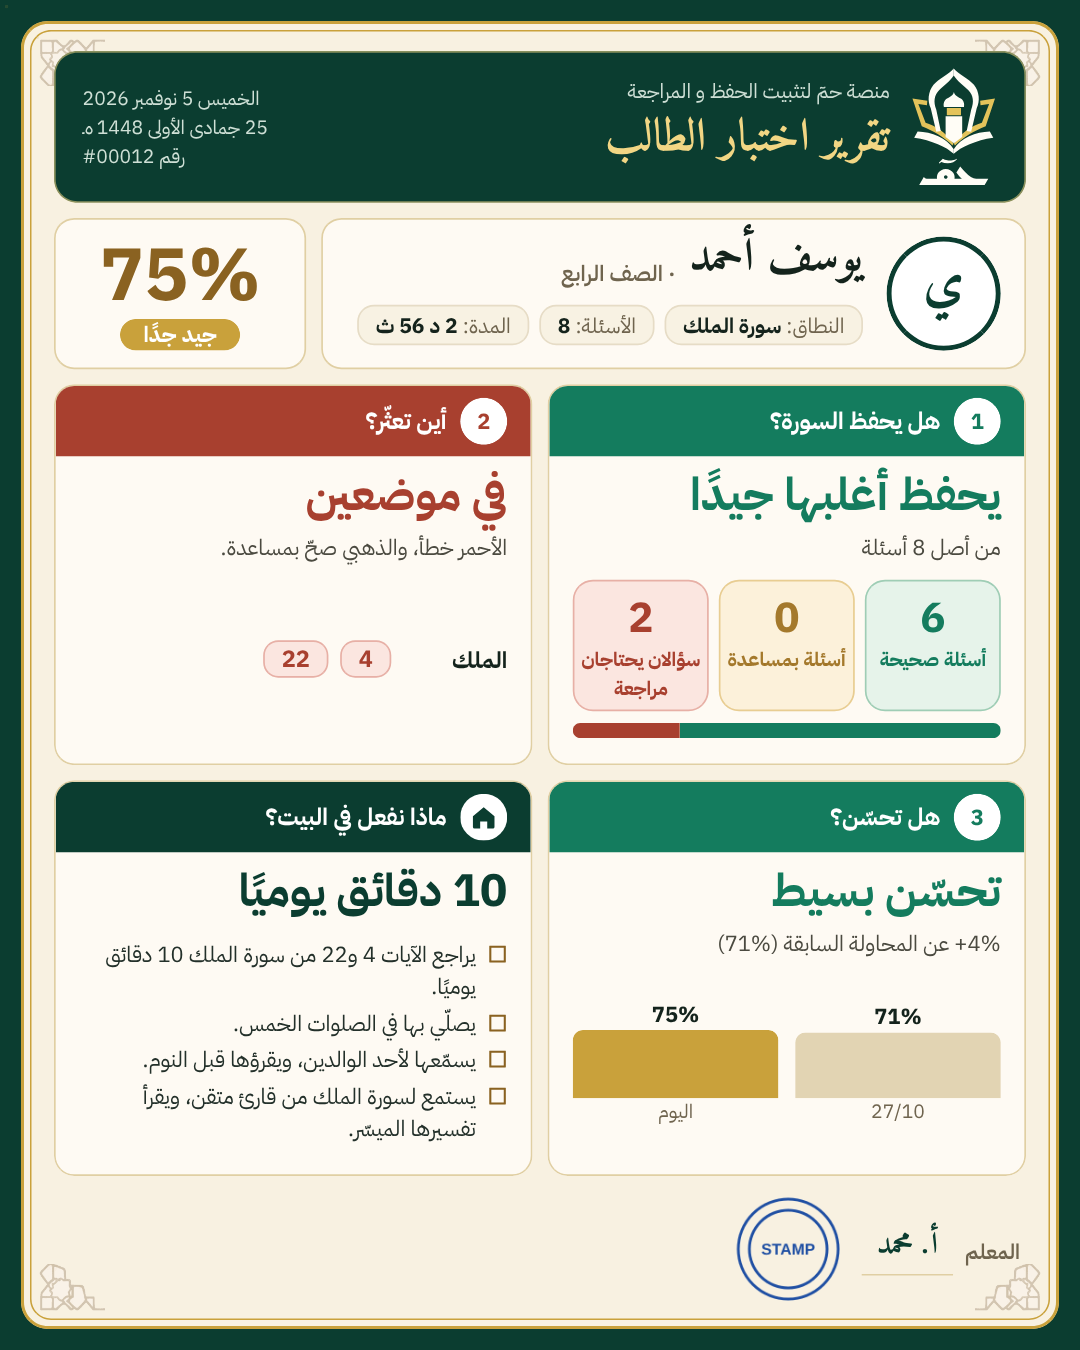
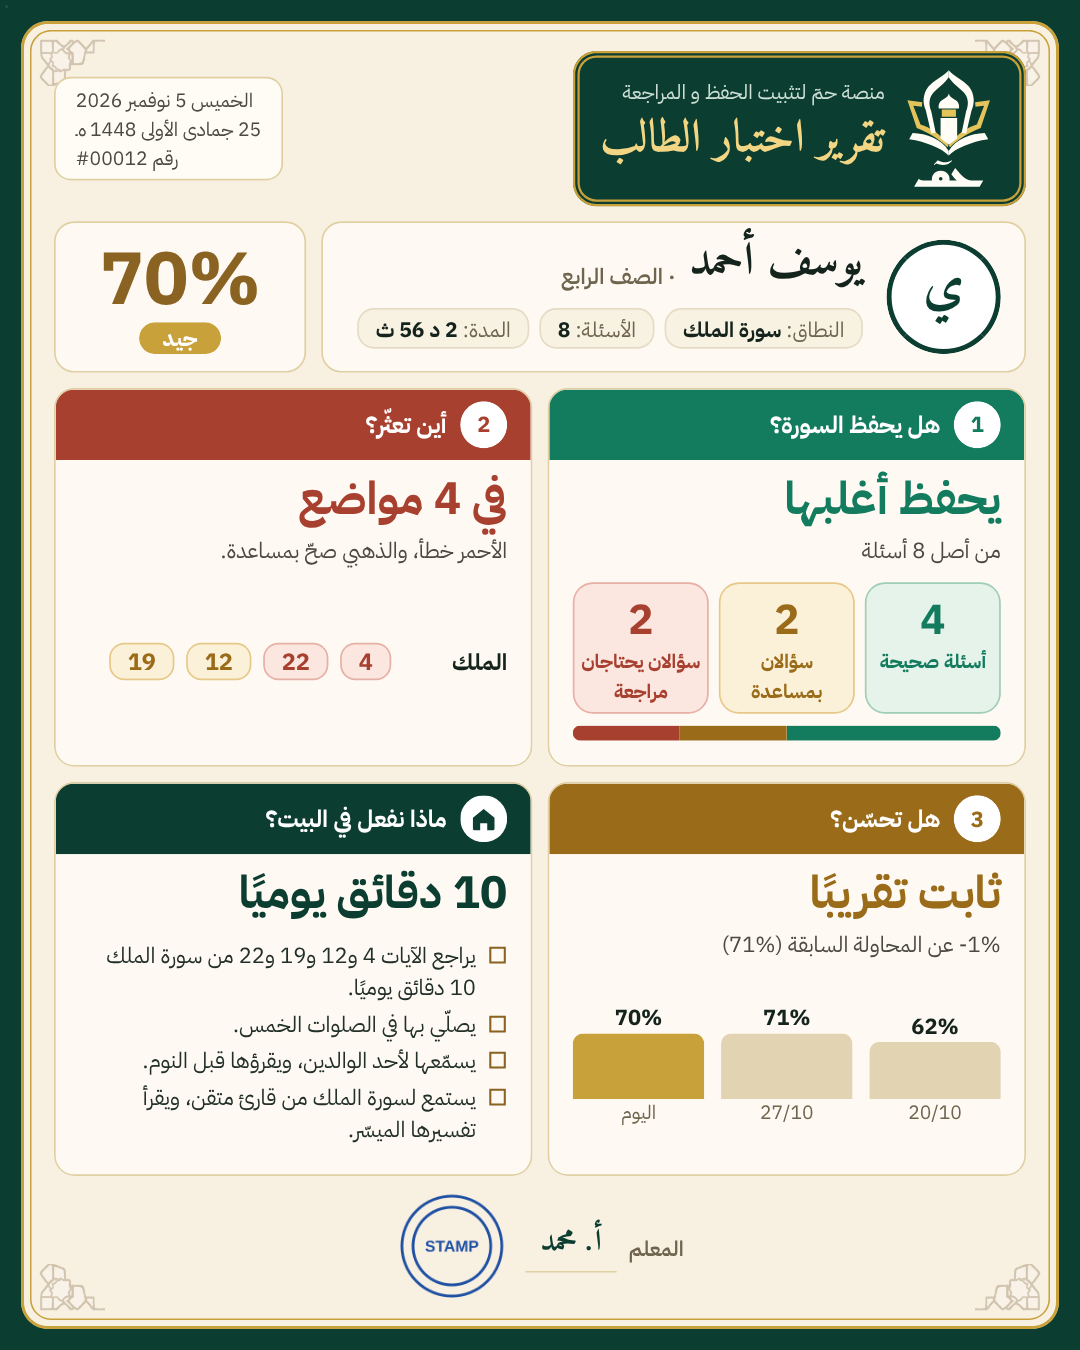
صورة ولي الأمر: التذييل (المعلم والختم) في الوسط بكل التصاميم ومربع للمندالا بعيدًا عن الزخرفة، مربعان للعنوان والتاريخ في سماء الصباح والإطار الزمردي، وألوان أوضح لأعمدة «هل تحسّن؟»
Claude-Session: https://claude.ai/code/session_011ARApKLi9jBqpWX58SnyN3

diff --git a/reports/parentQaCard.styles.js b/reports/parentQaCard.styles.js
@@ -70,7 +70,8 @@ export const QA_STYLES = `
 .qac .steps li:before{content:"☐";color:#8a6221;font-weight:700;flex:none}
 .qac .steps li.pen{background:rgba(255,246,224,.85);border:1px dashed #e6c98a;border-radius:9px;padding:3px 7px}
 .qac .steps li.pen:before{content:"✎"}
-.qac .ft{position:absolute;display:flex;justify-content:flex-start;align-items:center;gap:12px}
+.qac .ft{position:absolute;left:0;right:0;display:flex;justify-content:center;align-items:center}
+.qac .fbox{display:flex;align-items:center;gap:12px}
 .qac .tname{display:flex;align-items:baseline;gap:8px;line-height:1.3}
 .qac .tname .n{font-family:'Amiri',serif;font-size:20px;font-weight:700;color:var(--ttl);border-bottom:1px solid var(--cbd);padding:0 10px 2px}
 .qac .tname .l{font-size:14px;font-weight:600;color:var(--sub)}
@@ -84,8 +85,8 @@ export const QA_STYLES = `
 .qac.t1 .k{color:#125a57}
 .qac.t1 .hd .d{background:rgba(255,251,238,.85);border:1px solid #e0cc95;border-radius:10px;padding:3px 10px}
 .qac.t1 .hm{--c:#125a57;--bg:rgba(220,236,234,.72);--bd:#a9cbc8}
-.qac.t1 .tl i{background:rgba(210,174,85,.35)}
-.qac.t1 .ft{left:130px;right:130px;bottom:24px}
+.qac.t1 .tl i{background:#e2cd93}
+.qac.t1 .ft{bottom:24px}
 .qac.t1 .hd .brand{background:rgba(255,251,238,.88);border:4px double #d2ae55;border-radius:16px;padding:6px 16px 6px 12px}
 
 /* ---------- تصميم 2: سماء الصباح ---------- */
@@ -94,9 +95,11 @@ export const QA_STYLES = `
 .qac.t2 .c:before{display:none}
 .qac.t2 .k em{width:32px;height:32px;border-radius:11px}
 .qac.t2 .ok{--c:#119174;--bg:rgba(226,246,238,.75);--bd:#a6e0c9}.qac.t2 .pa{--c:#c47f00;--bg:rgba(255,243,214,.78);--bd:#f6d58a}.qac.t2 .no{--c:#d0473a;--bg:rgba(255,232,228,.78);--bd:#f6b5ab}.qac.t2 .hm{--c:#2a6fb0;--bg:rgba(230,240,251,.78);--bd:#b5d0ee}
-.qac.t2 .hd{background:rgba(255,255,255,.6);border-radius:22px;padding:8px 14px}
-.qac.t2 .tl i{background:rgba(255,255,255,.9)}
-.qac.t2 .ft{left:26px;right:26px;bottom:14px;background:rgba(255,255,255,.7);border:2px solid rgba(255,255,255,.95);border-radius:22px;padding:6px 18px}
+.qac.t2 .hd .brand{background:rgba(255,255,255,.85);border:2px solid #fff;border-radius:20px;padding:6px 16px 6px 12px;box-shadow:0 4px 14px rgba(31,95,80,.12)}
+.qac.t2 .hd .d{background:rgba(255,255,255,.8);border:2px solid #fff;border-radius:16px;padding:4px 12px}
+.qac.t2 .tl i{background:#a9ddd0}
+.qac.t2 .ft{bottom:16px}
+.qac.t2 .fbox{background:rgba(255,255,255,.82);border:2px solid #fff;border-radius:22px;padding:6px 22px}
 
 /* ---------- تصميم 3: ورق المندالا (مؤشرات أقوى حتى لا تذوب في الورق، والعنوان في مربع) ---------- */
 .qac.t3{background-image:url(assets/report/parent-bg/bg-mandala-paper.webp);--cbg:rgba(251,250,247,.74);--cbd:#9d9b95;--cr:8px;--csh:0 1px 0 rgba(0,0,0,.04);--ttl:#2f2f2d;--acc:#3a3a38;--acc2:#2f2f2d;--sub:#5e5e5a;--kbg:rgba(238,237,233,.8);--kbd:#c9c7c1}
@@ -109,12 +112,13 @@ export const QA_STYLES = `
 .qac.t3 .sbar{background:#d8d6d0}
 .qac.t3 .c.hm .k svg rect{fill:#3a3a38}
 .qac.t3 .av{border-color:#3a3a38}
-.qac.t3 .tl i{background:rgba(160,158,152,.35)}
+.qac.t3 .tl i{background:#bcb9b1}
 .qac.t3 .tl div.now i{background:#3a3a38}
 .qac.t3 .steps li.pen{background:#f2e4c4;border-color:#c9a55a}
 .qac.t3 .hd .brand{background:rgba(251,250,247,.92);border:1px solid #9d9b95;border-radius:8px;padding:4px 14px 4px 10px}
 .qac.t3 .hd .d{background:rgba(251,250,247,.92);border:1px solid #c9c7c1;border-radius:8px;padding:4px 10px;color:#4a4a48}
-.qac.t3 .ft{left:30px;right:30px;bottom:14px;width:max-content;max-width:660px;background:rgba(251,250,247,.94);border:1px solid #9d9b95;border-radius:8px;padding:4px 14px}
+.qac.t3 .ft{bottom:16px}
+.qac.t3 .fbox{background:rgba(251,250,247,.95);border:1px solid #9d9b95;border-radius:8px;padding:4px 18px}
 
 /* ---------- تصميم 4: إطار زمردي ---------- */
 .qac.t4{background:#0b3d30;--cbg:rgba(255,253,247,.78);--cbd:#e0cfa3;--cr:12px;--ttl:#0b3d30;--acc:#c9a13b;--sub:#6f644e;--kbg:rgba(246,239,222,.75)}
@@ -130,10 +134,11 @@ export const QA_STYLES = `
 .qac.t4 .k{background:var(--c);color:#fff;padding:7px 14px;margin:0}
 .qac.t4 .k em{background:#fff;color:var(--c)}
 .qac.t4 .k svg rect{fill:#fff}.qac.t4 .k svg path{fill:#0b3d30}
-.qac.t4 .hd{background:#0b3d30;border-radius:14px;padding:8px 16px;border:1px solid rgba(242,214,132,.55)}
+.qac.t4 .hd .brand{background:#0b3d30;border:4px double #c9a13b;border-radius:14px;padding:6px 16px 6px 12px}
+.qac.t4 .hd .d{background:rgba(255,253,247,.9);border:1px solid #e0cfa3;border-radius:10px;padding:4px 12px}
 .qac.t4 .hd img{width:52px}
-.qac.t4 .hd .t b{color:#f2d684}.qac.t4 .hd .t small,.qac.t4 .hd .d{color:#cfe0d6}
-.qac.t4 .ft{left:40px;right:40px;bottom:24px}
+.qac.t4 .hd .t b{color:#f2d684}.qac.t4 .hd .t small{color:#cfe0d6}.qac.t4 .hd .d{color:#4b4a40}
+.qac.t4 .ft{bottom:26px}
 
 .qac .tl div.now i{background:var(--acc)}
 `;

diff --git a/reports/parentQaCard.js b/reports/parentQaCard.js
@@ -43,8 +43,8 @@ export function resolveQaTheme(d){
 // المساحة الآمنة لكل تصميم داخل 720×900: لا تغطي زخارف الخلفية ولا منطقة التذييل
 const SAFE = {
   t1: { top: 22, right: 30, bottom: 162, left: 30 },
-  t2: { top: 20, right: 28, bottom: 112, left: 28 },
-  t3: { top: 26, right: 30, bottom: 104, left: 30 },
+  t2: { top: 20, right: 28, bottom: 122, left: 28 },
+  t3: { top: 26, right: 30, bottom: 114, left: 30 },
   t4: { top: 34, right: 36, bottom: 116, left: 36 }
 };
 
@@ -232,10 +232,10 @@ export function buildQaCardHtml(d, deps){
         ${card('hm', 4, t('qa_q4'), hw.head, '', `<ul class="steps">${tasks.map(x => `<li${x.pen ? ' class="pen"' : ''}>${E(x.text)}</li>`).join('')}</ul>`, HOUSE)}
       </div>
     </div></div>
-    <div class="ft">
+    <div class="ft"><div class="fbox">
       <div class="tname"><span class="l">${E(t('qa_teacher'))}</span><span class="n">${E(d.teacher && d.teacher.name)}</span></div>
-      <div class="tstamp">${stampSrc ? `<img src="${E(stampSrc)}" alt="">` : ''}</div>
-    </div>
+      ${stampSrc ? `<div class="tstamp"><img src="${E(stampSrc)}" alt=""></div>` : ''}
+    </div></div>
   </div>`;
 }
 
